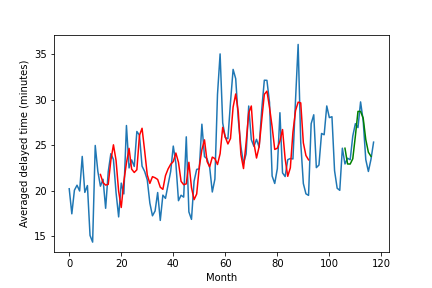
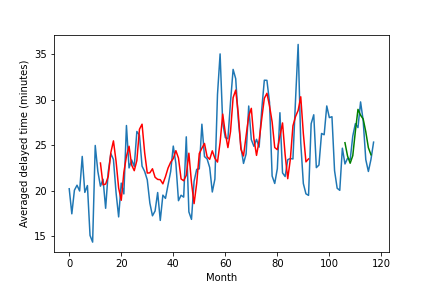
commit

Changed region(s): [[0.2106, 0.3125, 0.7222, 0.7188], [0.7824, 0.375, 0.8727, 0.5938]]

diff --git a/README.md b/README.md
@@ -183,7 +183,7 @@ Table 2.  Time series test prediction result (n = 3).
 
 
 ## Conclusion and Future Implementation
-LSTM nerual network models were built to predict flight departure time delay in this study.  The univariate models consist of multiple bidirectional LSTM layers and have an overall performance of MAPE ranging from 10.0 ± 0.1% to 11.5 ± 0.8% on time series test predictions.  Future directions may consider multivariate LSTM models and develop a web application for the flight departure delay information using FLASK.
+LSTM nerual network models were built to predict flight departure time delay in this study.  The univariate models consist of multiple bidirectional LSTM layers and have an overall performance of MAPE ranging from 10.0 ± 0.1% to 11.5 ± 0.8% on time series test predictions.  Future directions may consider multivariate LSTM models and possibly develop a web application to access flight departure delay information.
 
 
 
@@ -201,21 +201,51 @@ I would like to thank L Belenky, S English, K Boerstler, and J Hall for their he
 ![](image/air_travel.jpg)
 
 
-## Revision (Supplementary)
+## Supplementary
 
-This version is a simplified bidirectional univariate model with reduced layers and units that predicts the immediate month.  The model was built with a combination of a single LSTM layer followed by two simple-RNN layers.  The data was standardized.  Overall, the model gives a lower mean absolute percentage error of 5.3%.
+This version is a simplified bidirectional univariate model with reduced layers and units that predicts the immediate month.  The model was built with a combination of a single LSTM layer followed by two simple-RNN layers.  The data was standardized.  Overall, the model gives a lower mean absolute percentage error of 5.6 ± 0.1% (n = 5) than the original version.
 
-Supplementary Figure 1.  Time series plot of averaged monthly delayed departure time for Southwest Airlines.  Train/test split: 80:20; look back (lag time) = 12; sliding window = 1; red color = train prediction; green color = test prediction.
+Supplementary Figure 1.  Representative time series univariate plot of averaged monthly delayed departure time for Southwest Airlines.  Train/test split: 80:20; look back (lag time) = 12; sliding window = 1; red color = train prediction; green color = test prediction.
 
 ![](image/sw_revised.png)
 
-Train RMSE: 3.0692
 
-Test RMSE: 1.5232
-
-Test MAPE: 5.3%
-
-
-Supplementary Figure 2.  Graph of loss function of train and test sets.
+Supplementary Figure 2.  Representative graph of loss function of train and test sets for the univariate model.
 
 ![](image/sw_mse.png)
+
+
+Univariate Model (n = 5):
+
+Train RMSE: 3.135 ± 0.025
+
+Train MAPE: 10.9 ± 0.1%
+
+Test RMSE: 1.650 ± 0.079
+
+Test MAPE: 5.6 ± 0.1%
+
+
+
+A multivariate model was constructed.  The model architecture was the same as the new version of univariate model; however, with addition of CARRIER_DELAY and LATE_AIRCRAFT_DELAY features.  WEATHER_DELAY, NAS_DELAY, SECURITY_DELAY features were not included because addition of those features would cause an increase in MAPE.  Although neural network was unlikely to suffer multicollinearity (with the expense of overparameterization), ARR_DELAY feature, in any case, was also not included in the model.  The data was standardized.  Overall, the MAPE (4.9 ± 0.2% (n = 5)) of mulitvariate model is significantly lower than that of the univariate model. 
+
+
+Supplementary Figure 3.  Representative time series mulitvariate plot of averaged monthly delayed departure time for Southwest Airlines.  Train/test split: 80:20; look back (lag time) = 12; sliding window = 1; red color = train prediction; green color = test prediction.
+
+![](image/plot_multivariate.png)
+
+
+Supplementary Figure 4.  Representative graph of loss function of train and test sets for the multivariate model.
+
+![](image/mse_multivariate.png)
+
+
+Multivariate Model (n = 5):
+
+Train RMSE: 2.903 ± 0.090
+
+Train MAPE: 10.1 ± 0.4%
+
+Test RMSE: 1.540 ± 0.047
+
+Test MAPE: 4.9 ± 0.2%
